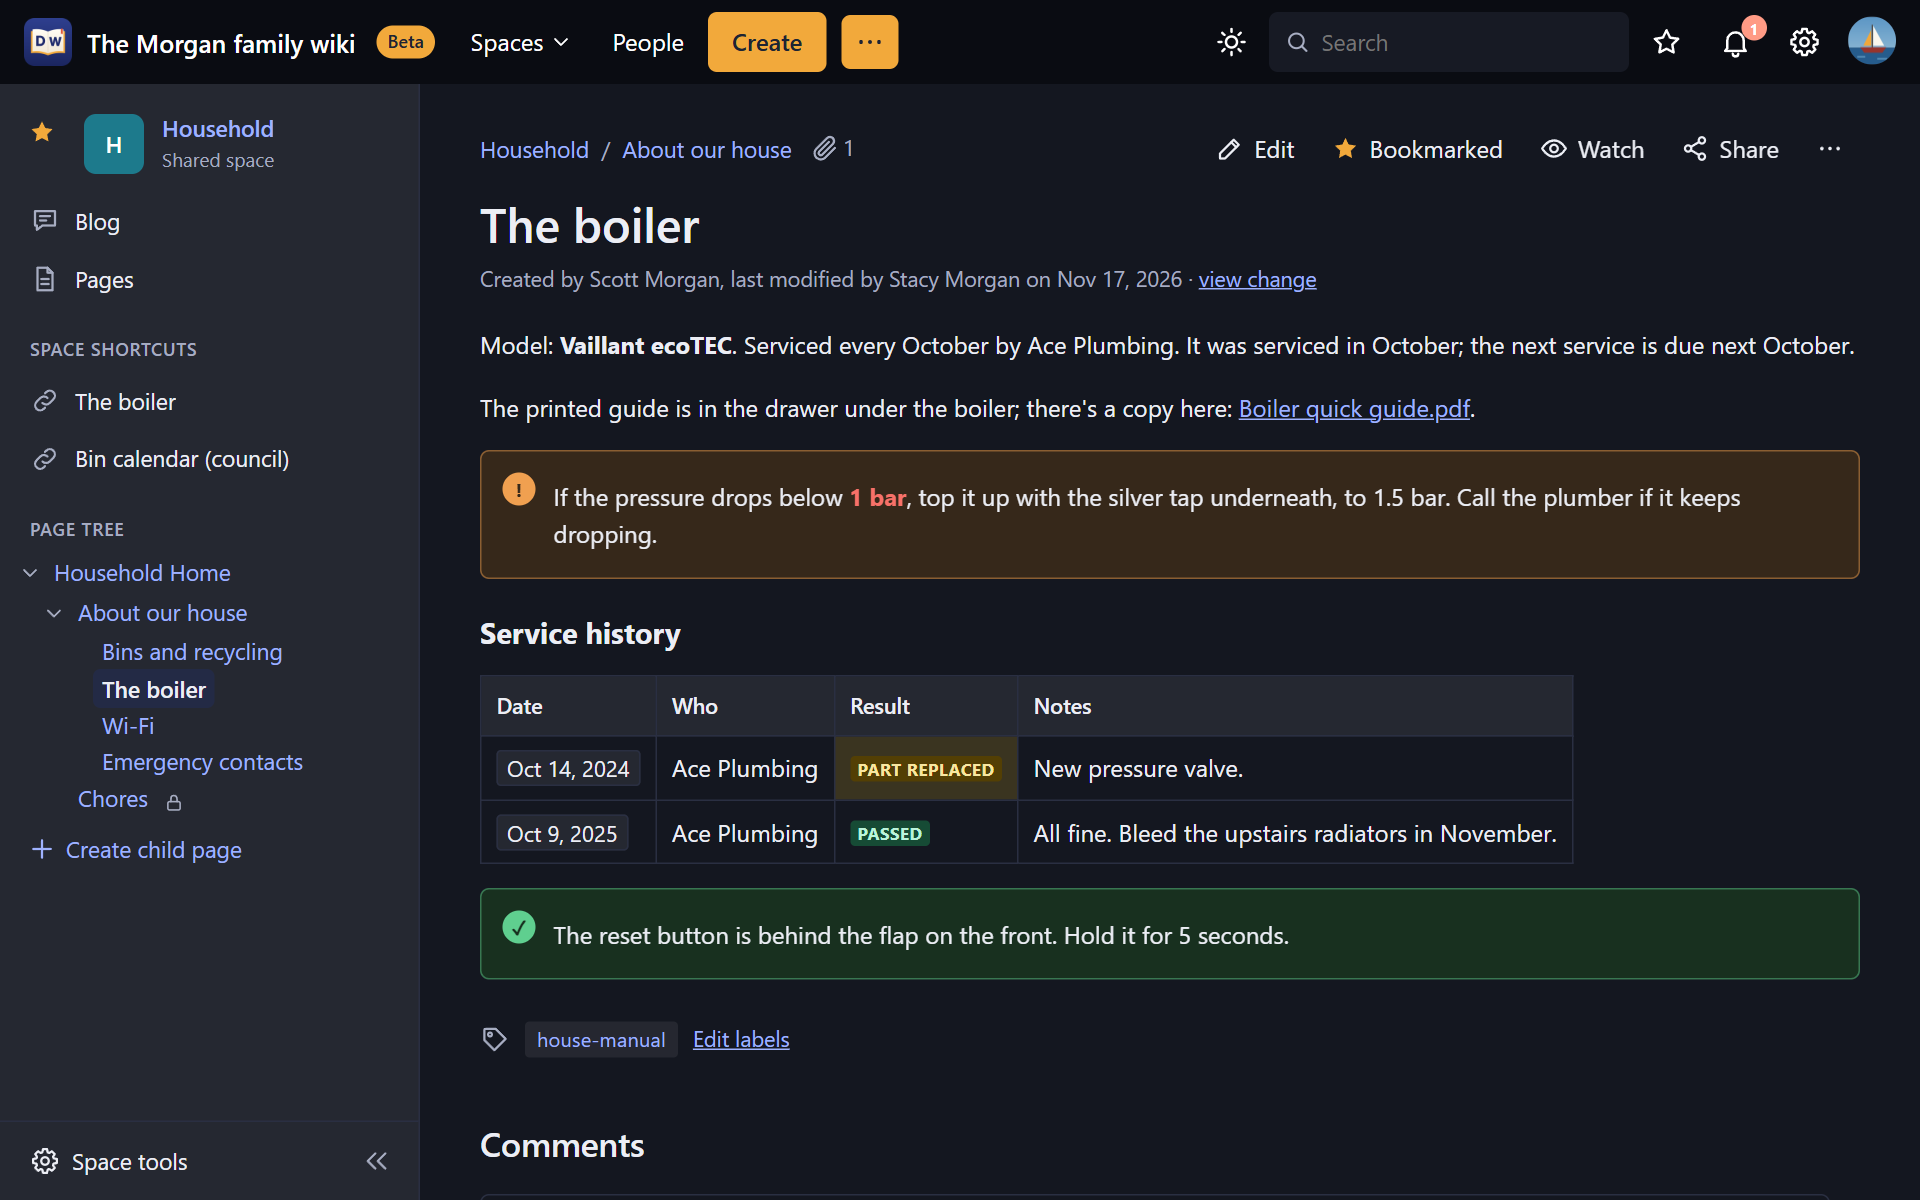
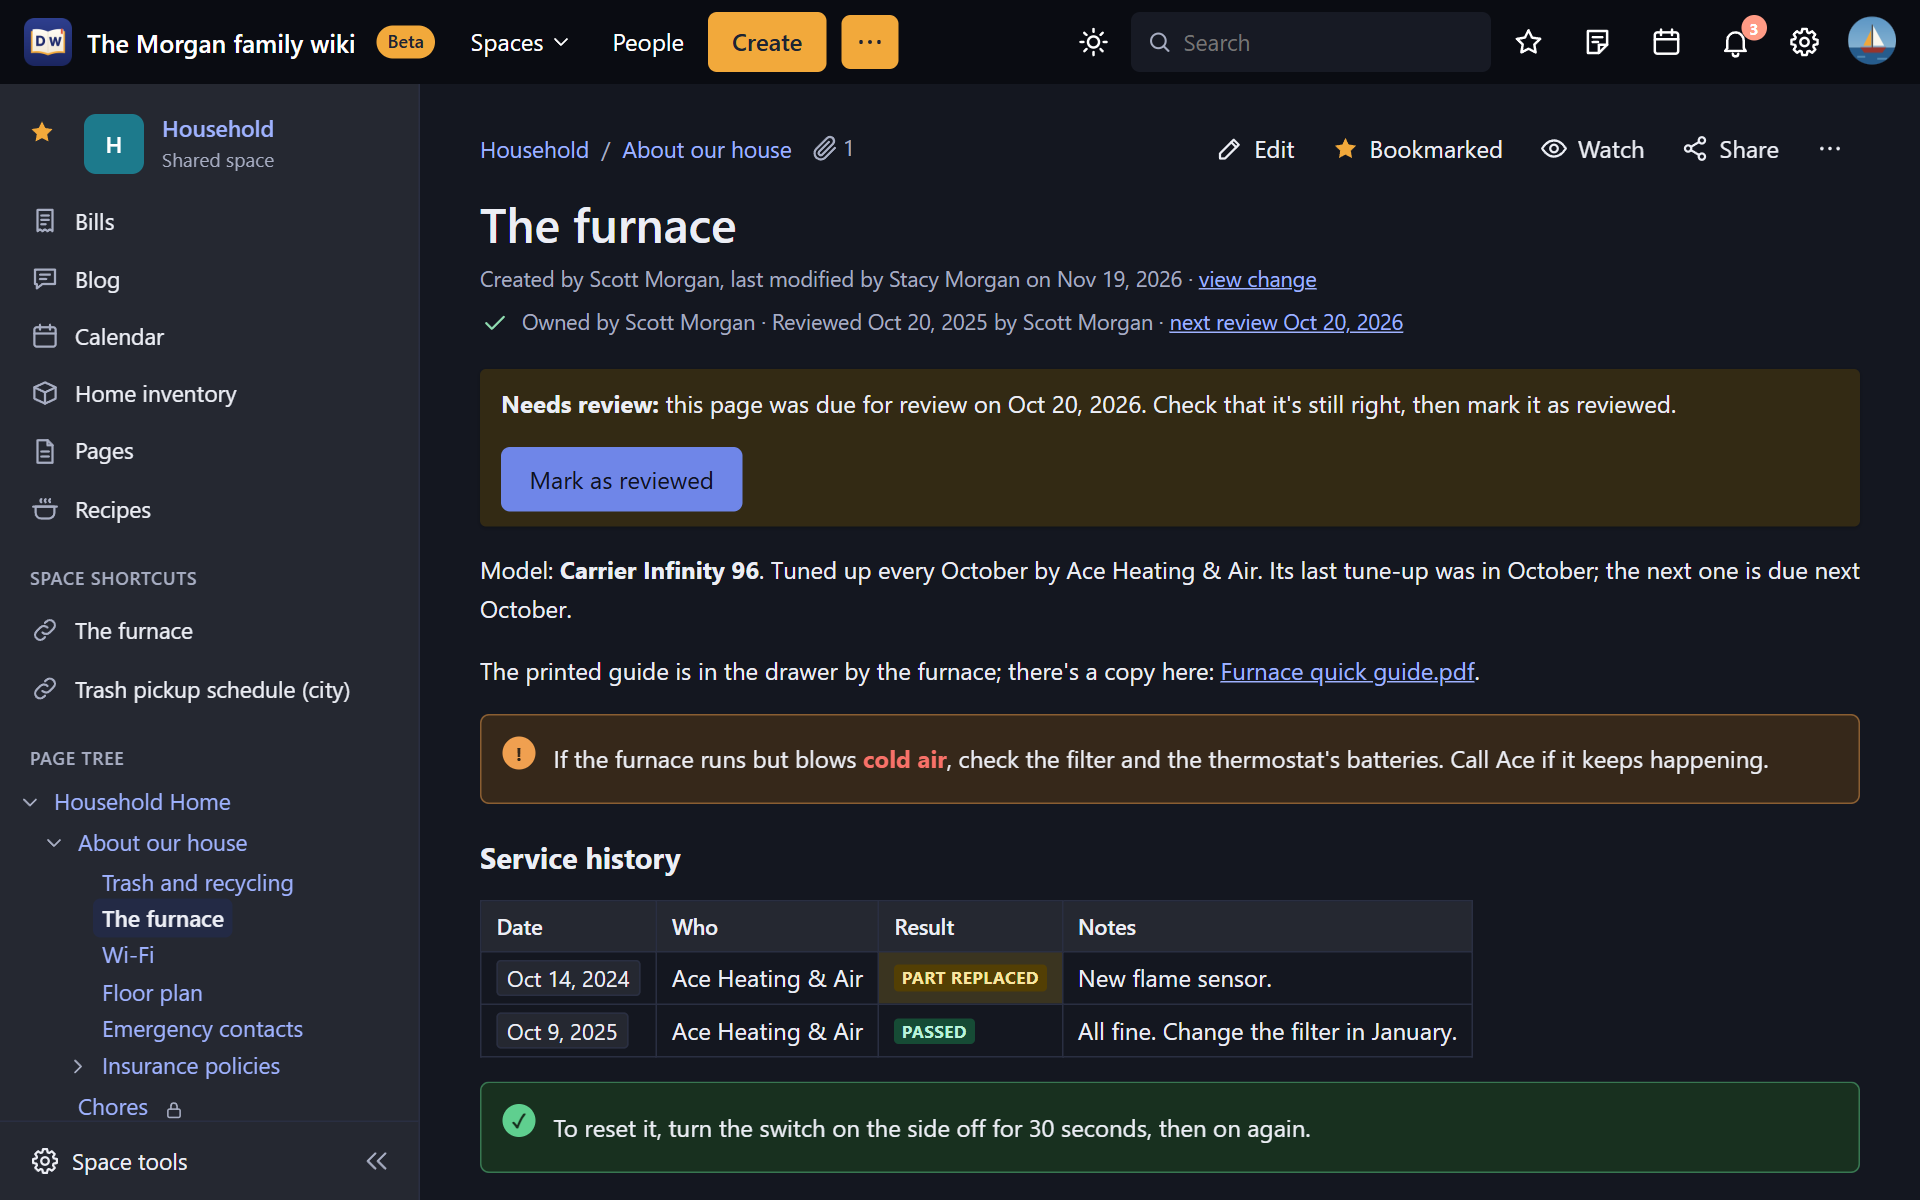
Features → Wiki: the picture shows The furnace

diff --git a/features/wiki.html b/features/wiki.html
@@ -48,8 +48,8 @@
     </nav>
 
     <figure class="shot">
-      <a class="shot-light" href="img/wiki-light.png"><img src="img/wiki-light.png" width="1920" height="1200" alt="The Household space with its page tree on the left and the page The boiler: a warning panel about the pressure, a table of service visits with colored status labels, a tip panel and a label."></a>
-      <a class="shot-dark" href="img/wiki-dark.png"><img src="img/wiki-dark.png" width="1920" height="1200" loading="lazy" alt="The Household space with its page tree on the left and the page The boiler: a warning panel about the pressure, a table of service visits with colored status labels, a tip panel and a label. In dark mode."></a>
+      <a class="shot-light" href="img/wiki-light.png"><img src="img/wiki-light.png" width="1920" height="1200" alt="The Household space with its page tree on the left and the page The furnace: its owner and next review date with a Needs review note, a warning panel about cold air, a table of service visits with colored status labels and a tip panel."></a>
+      <a class="shot-dark" href="img/wiki-dark.png"><img src="img/wiki-dark.png" width="1920" height="1200" loading="lazy" alt="The Household space with its page tree on the left and the page The furnace: its owner and next review date with a Needs review note, a warning panel about cold air, a table of service visits with colored status labels and a tip panel. In dark mode."></a>
       <figcaption>From the demo wiki, the Morgan family&rsquo;s. The picture follows this page&rsquo;s light or dark mode; click it to see it full size.</figcaption>
     </figure>
 
